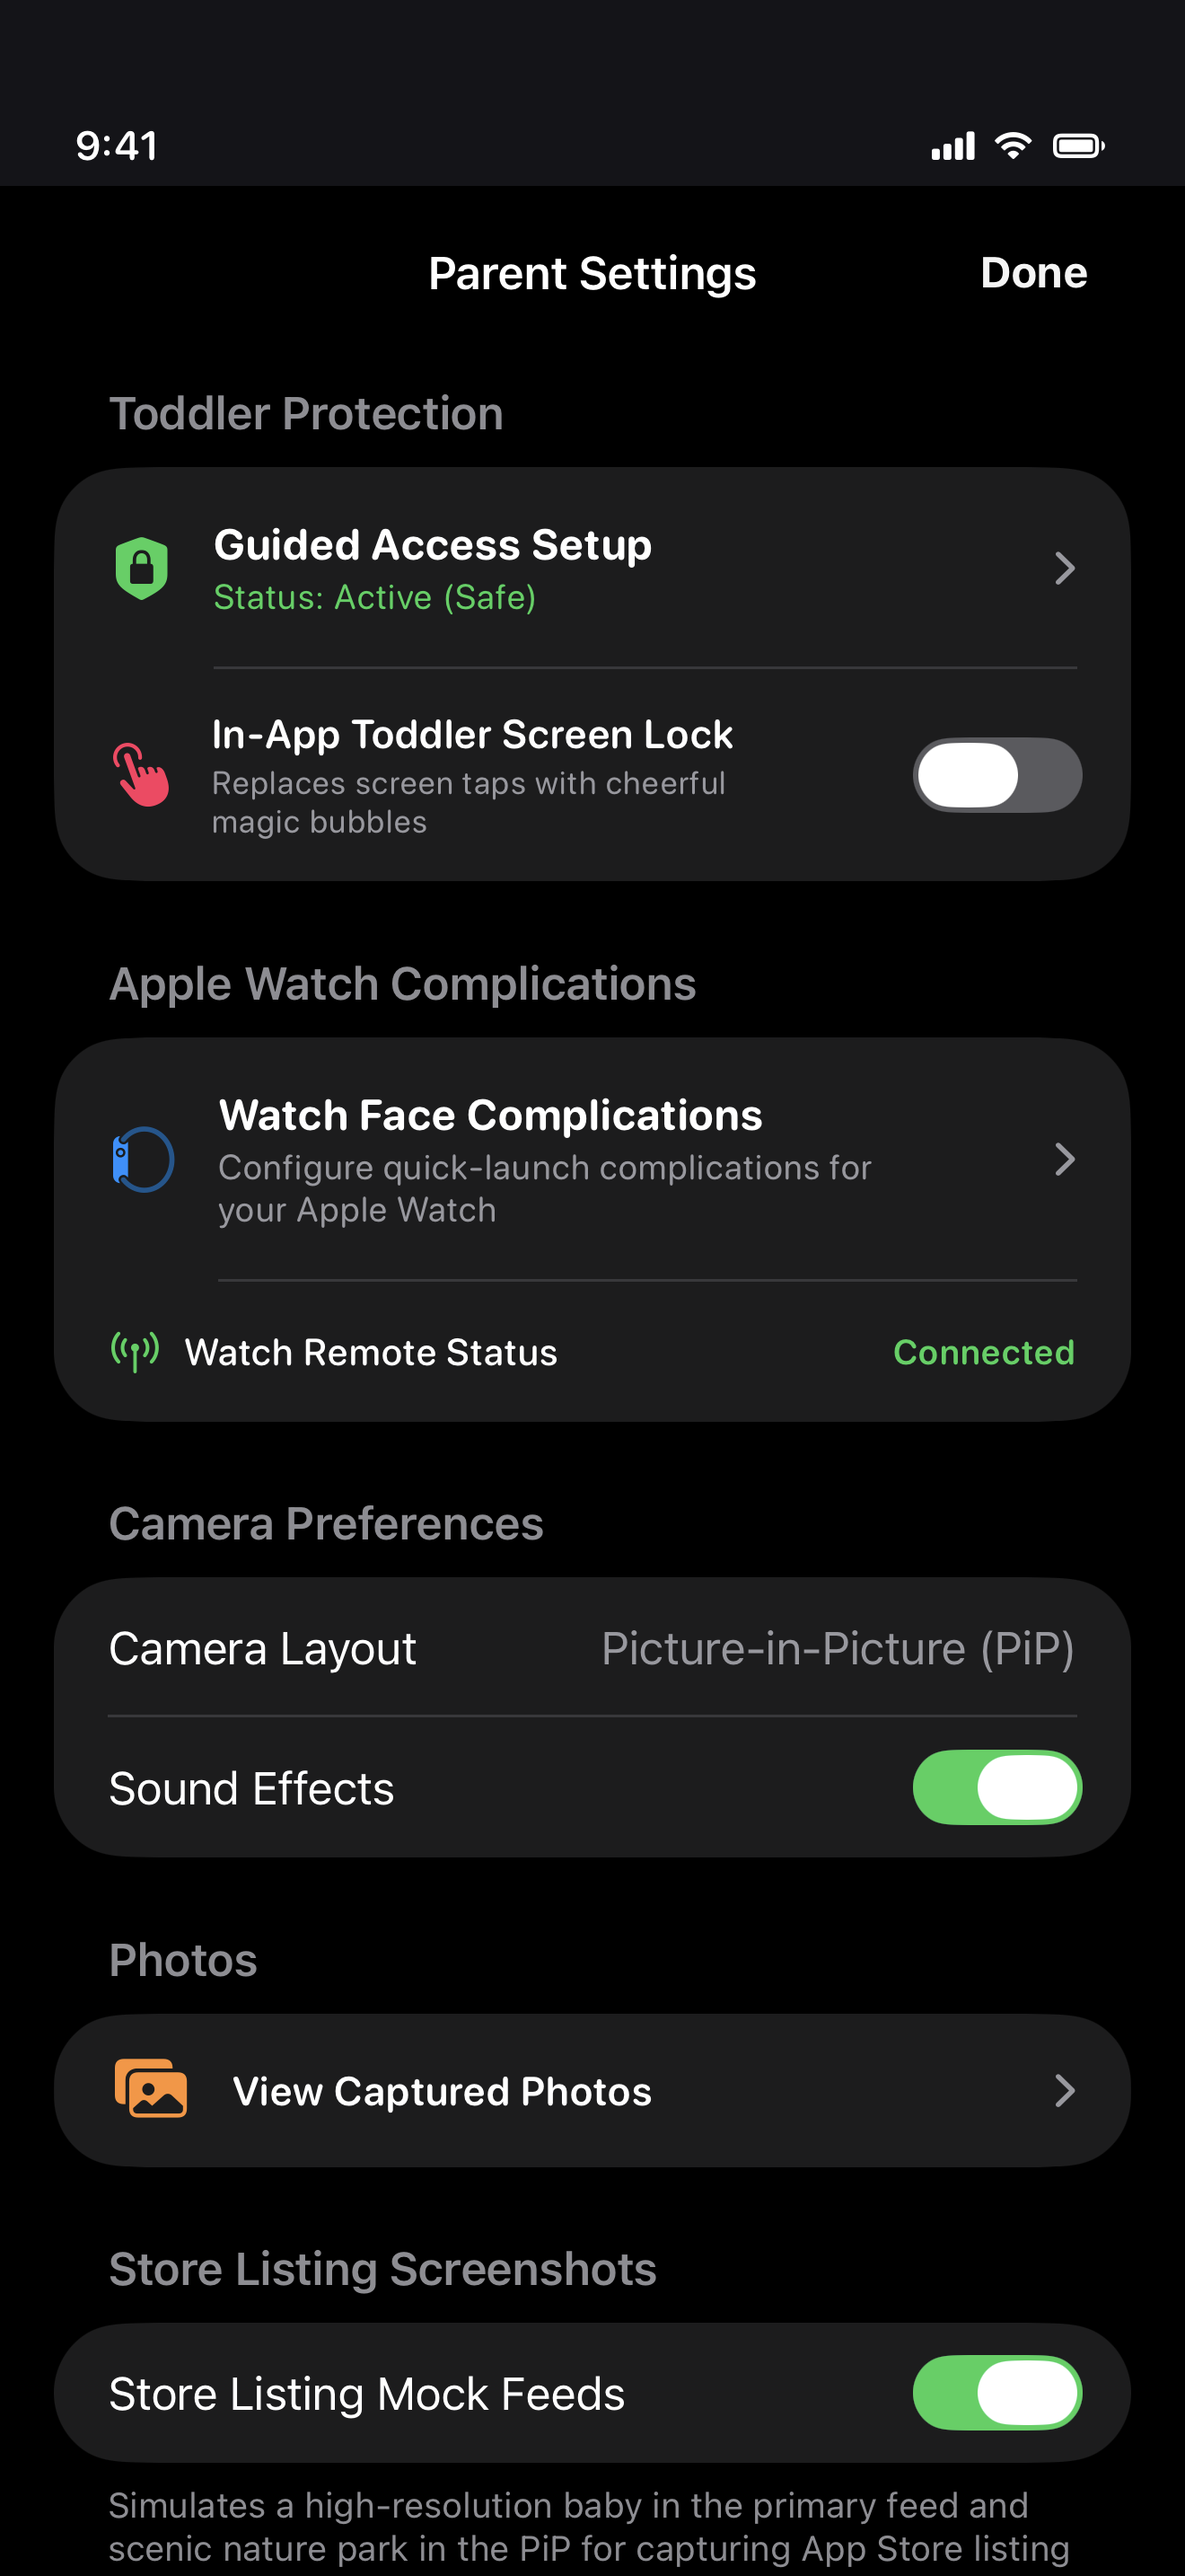
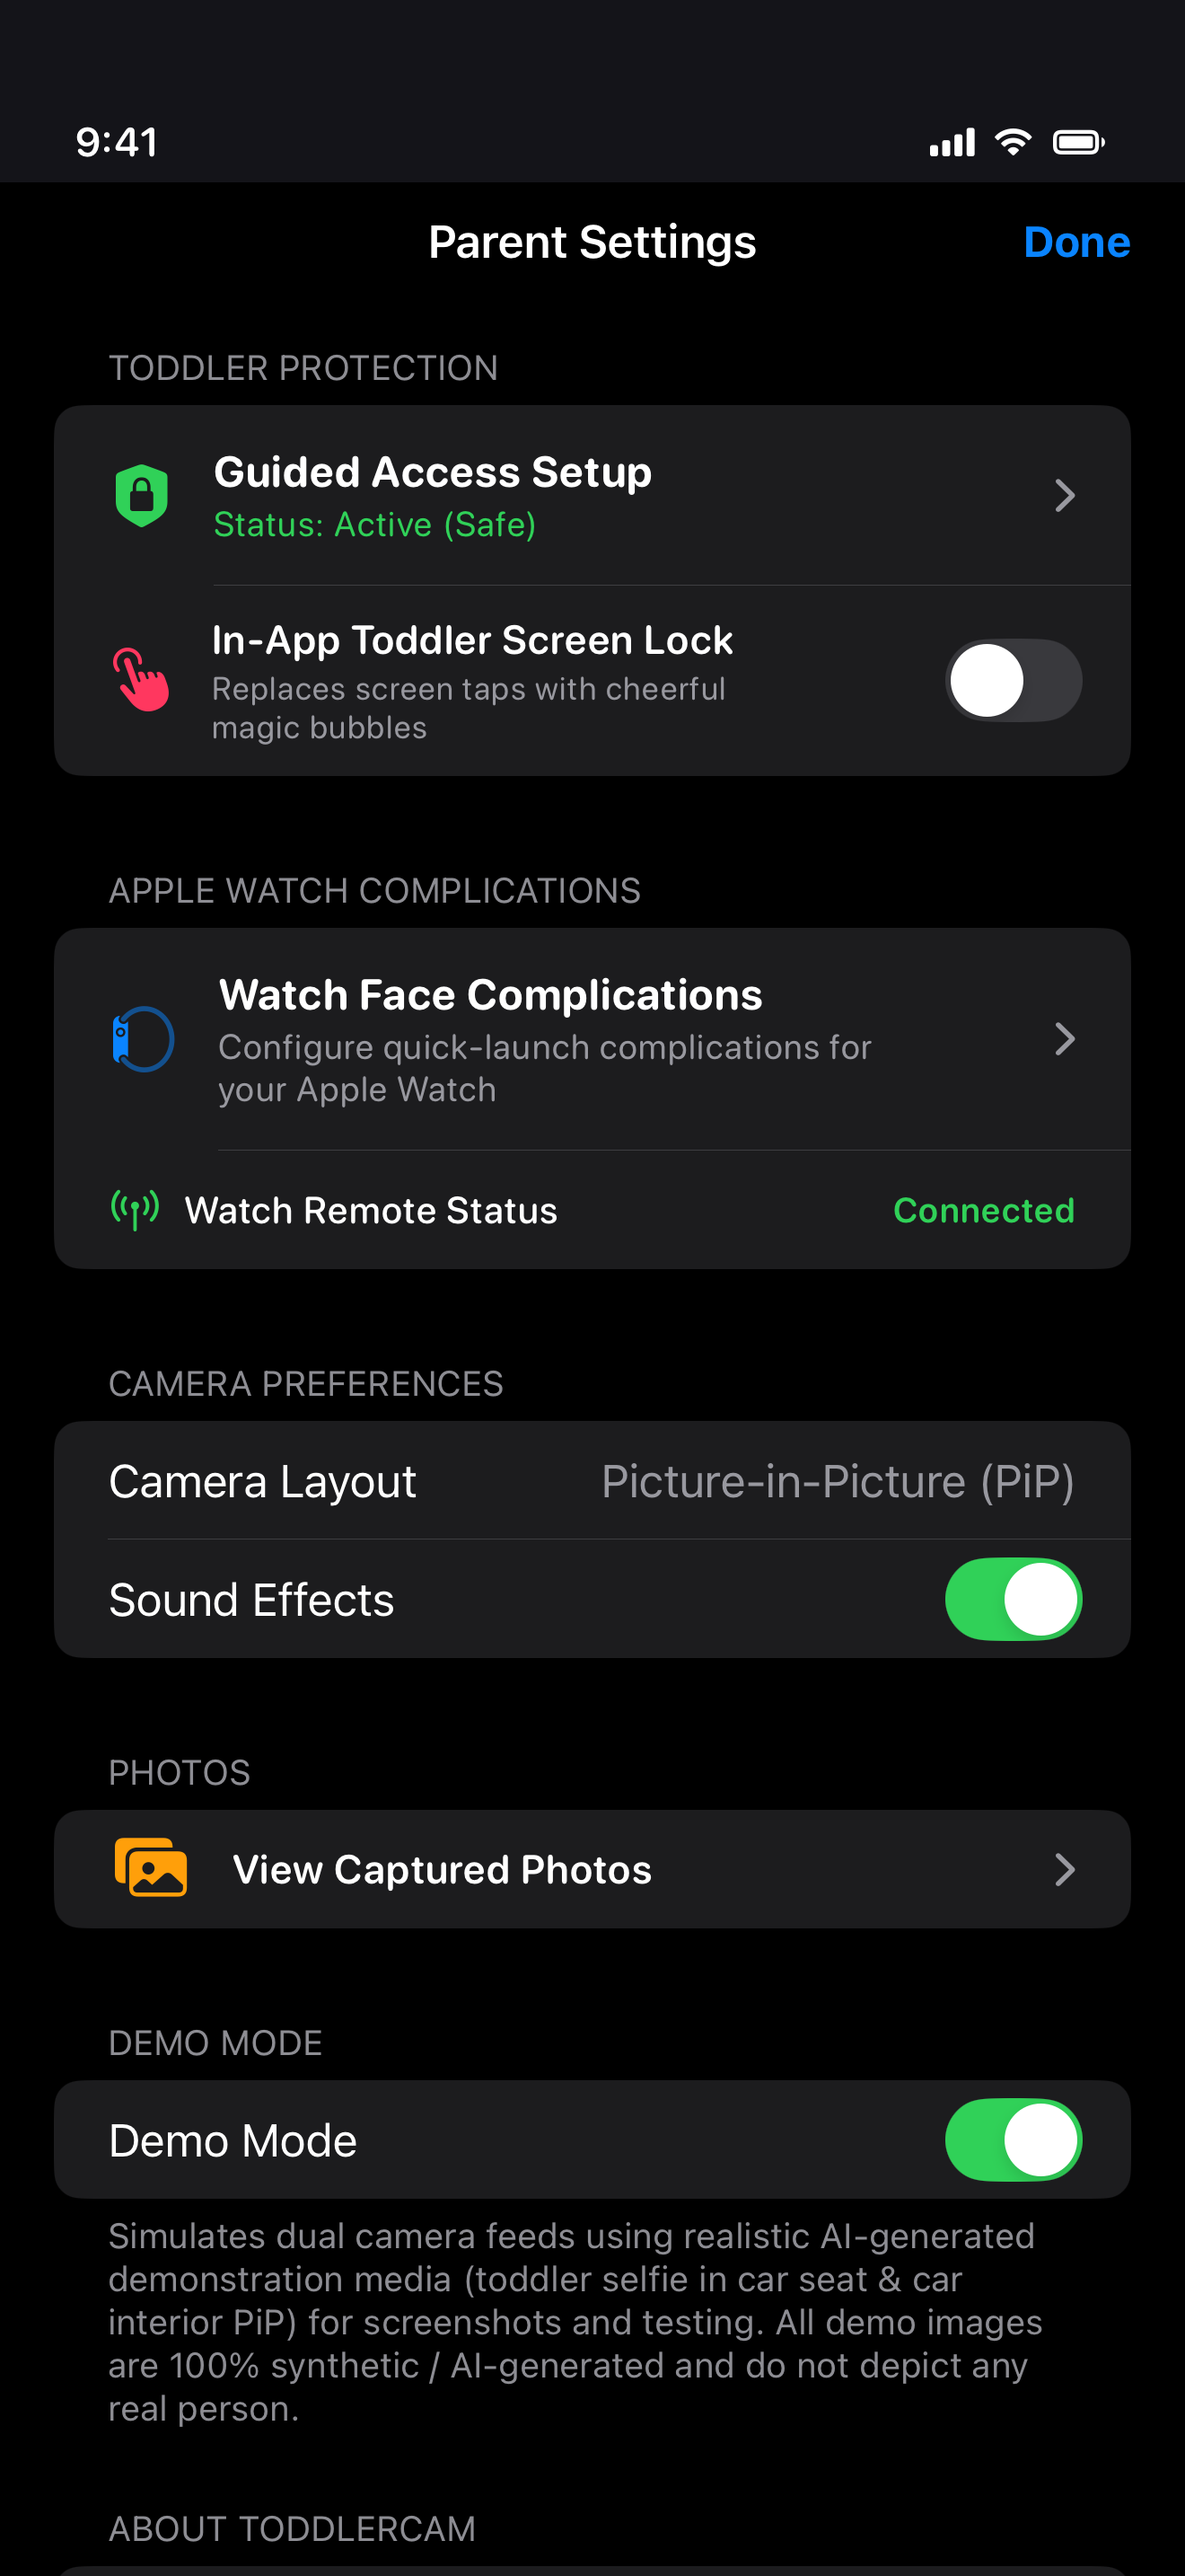
feat: replace demo mode mock feeds with AI-generated toddler imagery
Swaps the procedurally-drawn baby/nature-park demo frames for realistic
AI-generated demo photos (toddler car-seat selfie + car interior PiP),
refreshed App Store screenshots to match, and adds an on-screen
"AI-Generated / not a real person" disclosure badge in both the live
toddler camera view and the captured dual-photo watermark. Procedural
rendering is kept as a fallback if the bundled images can't be loaded.

Claude-Session: https://claude.ai/code/session_01FbxsA4ESkiWnKonDVCzdRW

diff --git a/KidsCam/Camera/DualPhotoRenderer.swift b/KidsCam/Camera/DualPhotoRenderer.swift
@@ -9,7 +9,8 @@ public final class DualPhotoRenderer {
         frontImage: UIImage,
         primaryPosition: ActiveCameraPosition,
         filter: FaceEmojiType? = FaceTrackingManager.shared.activeFilter,
-        sticker: String? = nil
+        sticker: String? = nil,
+        isDemo: Bool = DualCameraManager.shared.isDemoMode
     ) -> UIImage {
         let size = CGSize(width: 1200, height: 1600)
         let format = UIGraphicsImageRendererFormat()
@@ -100,7 +101,7 @@ public final class DualPhotoRenderer {
             }
 
             // Watermark ribbon at bottom
-            drawWatermark(size: size)
+            drawWatermark(size: size, isDemo: isDemo)
         }
     }
 
@@ -178,10 +179,10 @@ public final class DualPhotoRenderer {
         return buffer
     }
 
-    private static func drawWatermark(size: CGSize) {
-        let ribbonHeight: CGFloat = 80
+    private static func drawWatermark(size: CGSize, isDemo: Bool = false) {
+        let ribbonHeight: CGFloat = isDemo ? 104 : 80
 
-        let colors = [UIColor.black.withAlphaComponent(0.6).cgColor, UIColor.clear.cgColor]
+        let colors = [UIColor.black.withAlphaComponent(0.65).cgColor, UIColor.clear.cgColor]
         let colorSpace = CGColorSpaceCreateDeviceRGB()
         if let grad = CGGradient(colorsSpace: colorSpace, colors: colors as CFArray, locations: [1.0, 0.0]) {
             guard let ctx = UIGraphicsGetCurrentContext() else { return }
@@ -189,13 +190,24 @@ public final class DualPhotoRenderer {
         }
 
         let title = "📸 ToddlerCam Dual Shot"
-        let font = UIFont.systemFont(ofSize: 28, weight: .bold)
+        let font = UIFont.systemFont(ofSize: isDemo ? 24 : 28, weight: .bold)
         let attrs: [NSAttributedString.Key: Any] = [
             .font: font,
             .foregroundColor: UIColor.white
         ]
         let titleStr = NSString(string: title)
-        titleStr.draw(at: CGPoint(x: 30, y: size.height - 55), withAttributes: attrs)
+        let titleY = isDemo ? (size.height - 74) : (size.height - 55)
+        titleStr.draw(at: CGPoint(x: 30, y: titleY), withAttributes: attrs)
+
+        if isDemo {
+            let demoTag = "AI-Generated Demonstration • Does not represent a real person"
+            let demoAttrs: [NSAttributedString.Key: Any] = [
+                .font: UIFont.systemFont(ofSize: 18, weight: .semibold),
+                .foregroundColor: UIColor(red: 1.0, green: 0.9, blue: 0.4, alpha: 0.95)
+            ]
+            let demoStr = NSString(string: demoTag)
+            demoStr.draw(at: CGPoint(x: 30, y: size.height - 40), withAttributes: demoAttrs)
+        }
 
         let formatter = DateFormatter()
         formatter.dateStyle = .medium
@@ -206,7 +218,7 @@ public final class DualPhotoRenderer {
             .foregroundColor: UIColor(white: 0.9, alpha: 0.9)
         ]
         let dateSize = dateStr.size(withAttributes: dateAttrs)
-        dateStr.draw(at: CGPoint(x: size.width - dateSize.width - 30, y: size.height - 52), withAttributes: dateAttrs)
+        dateStr.draw(at: CGPoint(x: size.width - dateSize.width - 30, y: titleY + (isDemo ? 1 : 3)), withAttributes: dateAttrs)
     }
 
     public static func renderSimulatedBackCamera() -> UIImage {
@@ -302,10 +314,50 @@ public final class DualPhotoRenderer {
         }
     }
 
-    // MARK: - Demo Mode Feeds (Baby & Nature / Amusement Park)
+    // MARK: - Demo Mode Feeds (AI-Generated Kid Selfie & Car View)
 
-    /// Renders a cheerful, high-resolution portrait illustration of a baby for store listing screenshots
+    /// Helper to reliably load demo images from Asset Catalog, App/Framework Bundle, or repo resources
+    public static func loadDemoImage(named name: String, filename: String) -> UIImage? {
+        if let img = UIImage(named: name) {
+            return img
+        }
+        if let bundle = Bundle(identifier: "com.hejitech.kidscam"), let img = UIImage(named: name, in: bundle, compatibleWith: nil) {
+            return img
+        }
+        let frameworkBundle = Bundle(for: DualCameraManager.self)
+        if let img = UIImage(named: name, in: frameworkBundle, compatibleWith: nil) {
+            return img
+        }
+        if let path = frameworkBundle.path(forResource: filename, ofType: "jpg"), let img = UIImage(contentsOfFile: path) {
+            return img
+        }
+        if let path = Bundle.main.path(forResource: filename, ofType: "jpg"), let img = UIImage(contentsOfFile: path) {
+            return img
+        }
+        let devPaths = [
+            "/Users/tianhaoz/GitHub/kids-cam/KidsCam/Resources/" + filename + ".jpg",
+            "/Users/tianhaoz/GitHub/kids-cam/KidsCam/Resources/Assets.xcassets/" + name + ".imageset/" + filename + ".jpg"
+        ]
+        for p in devPaths {
+            if FileManager.default.fileExists(atPath: p), let img = UIImage(contentsOfFile: p) {
+                return img
+            }
+        }
+        return nil
+    }
+
+    /// Renders a realistic AI-generated portrait of a toddler in a car seat for demo mode and store listing screenshots
     public static func renderBabyMockImage(size: CGSize = CGSize(width: 800, height: 1200)) -> UIImage {
+        if let baseImage = loadDemoImage(named: "DemoKidSelfie", filename: "demo_kid_selfie") {
+            return UIGraphicsImageRenderer(size: size).image { ctx in
+                drawImageAspectFill(baseImage, in: CGRect(origin: .zero, size: size), context: ctx.cgContext)
+            }
+        }
+        return renderProceduralBabyMockImage(size: size)
+    }
+
+    /// Procedural drawing fallback if bundle image is not available
+    public static func renderProceduralBabyMockImage(size: CGSize = CGSize(width: 800, height: 1200)) -> UIImage {
         return UIGraphicsImageRenderer(size: size).image { ctx in
             let cg = ctx.cgContext
 
@@ -467,8 +519,23 @@ public final class DualPhotoRenderer {
         }
     }
 
-    /// Renders a scenic state park and amusement park landscape for the picture-in-picture view
+    /// Renders the demo car self-view / rear view for the picture-in-picture view
     public static func renderNatureParkMockImage(size: CGSize = CGSize(width: 800, height: 1200)) -> UIImage {
+        return renderCarSelfViewMockImage(size: size)
+    }
+
+    /// Renders the realistic AI-generated car interior view for PiP in demo mode
+    public static func renderCarSelfViewMockImage(size: CGSize = CGSize(width: 800, height: 1200)) -> UIImage {
+        if let baseImage = loadDemoImage(named: "DemoCarSelfView", filename: "demo_car_self_view") {
+            return UIGraphicsImageRenderer(size: size).image { ctx in
+                drawImageAspectFill(baseImage, in: CGRect(origin: .zero, size: size), context: ctx.cgContext)
+            }
+        }
+        return renderProceduralNatureParkMockImage(size: size)
+    }
+
+    /// Procedural drawing fallback if bundle image is not available
+    public static func renderProceduralNatureParkMockImage(size: CGSize = CGSize(width: 800, height: 1200)) -> UIImage {
         return UIGraphicsImageRenderer(size: size).image { ctx in
             let cg = ctx.cgContext
 

diff --git a/KidsCam/Camera/DualCameraPreviewView.swift b/KidsCam/Camera/DualCameraPreviewView.swift
@@ -77,7 +77,7 @@ public struct DualCameraPreviewView: View {
         let pipWidth: CGFloat = screenSize.width * 0.35
         let pipHeight: CGFloat = pipWidth * 1.33
         let secondaryPos: ActiveCameraPosition = (cameraManager.primaryPosition == .back) ? .front : .back
-        let topOffset: CGFloat = max(geo.safeAreaInsets.top, 48) + 50
+        let topOffset: CGFloat = max(geo.safeAreaInsets.top, 48) + 90
 
         ZStack {
             // Main Fullscreen Feed - Fills 100% of the display edge-to-edge
@@ -169,11 +169,31 @@ public struct DualCameraPreviewView: View {
     @ViewBuilder
     private func demoBabyFeed(targetSize: CGSize) -> some View {
         let img = cameraManager.demoBabyFrame ?? DualPhotoRenderer.renderBabyMockImage()
-        Image(uiImage: img)
-            .resizable()
-            .aspectRatio(contentMode: .fill)
-            .frame(width: targetSize.width, height: targetSize.height)
-            .clipped()
+        let isLarge = targetSize.width > 300
+        ZStack(alignment: .bottom) {
+            Image(uiImage: img)
+                .resizable()
+                .aspectRatio(contentMode: .fill)
+                .frame(width: targetSize.width, height: targetSize.height)
+                .clipped()
+
+
+            if !isLarge {
+                // Compact badge inside PiP window
+                HStack(spacing: 3) {
+                    Image(systemName: "sparkles")
+                        .font(.system(size: 8, weight: .bold))
+                    Text("AI-Generated")
+                        .font(.system(size: 8, weight: .bold, design: .rounded))
+                }
+                .foregroundColor(.white)
+                .padding(.horizontal, 6)
+                .padding(.vertical, 3)
+                .background(Color.black.opacity(0.70))
+                .cornerRadius(6)
+                .padding(.bottom, 6)
+            }
+        }
     }
 
     @ViewBuilder

diff --git a/KidsCam/UI/ToddlerCameraView.swift b/KidsCam/UI/ToddlerCameraView.swift
@@ -46,9 +46,31 @@ public struct ToddlerCameraView: View {
                 // 2. Main Toddler Controls
                 VStack(spacing: 0) {
                     // Top Header Bar cleanly positioned below notch / Dynamic Island
-                    topHeaderBar
-                        .padding(.horizontal, 16)
-                        .padding(.top, max(geo.safeAreaInsets.top, 48) + 4)
+                    VStack(alignment: .leading, spacing: 6) {
+                        topHeaderBar
+                            .padding(.horizontal, 16)
+
+                        if cameraManager.isDemoMode {
+                            HStack(spacing: 5) {
+                                Image(systemName: "sparkles")
+                                    .font(.system(size: 10, weight: .bold))
+                                    .foregroundColor(.yellow)
+                                Text("DEMO MODE • AI-Generated (Not a real person)")
+                                    .font(.system(size: 10, weight: .bold, design: .rounded))
+                                    .foregroundColor(.white)
+                            }
+                            .padding(.horizontal, 10)
+                            .padding(.vertical, 5)
+                            .background(Color.black.opacity(0.72))
+                            .cornerRadius(12)
+                            .overlay(
+                                RoundedRectangle(cornerRadius: 12)
+                                    .stroke(Color.white.opacity(0.25), lineWidth: 1)
+                            )
+                            .padding(.horizontal, 16)
+                        }
+                    }
+                    .padding(.top, max(geo.safeAreaInsets.top, 48) + 4)
 
                     Spacer()
 

diff --git a/KidsCam/UI/ParentHubView.swift b/KidsCam/UI/ParentHubView.swift
@@ -148,7 +148,10 @@ public struct ParentHubView: View {
                 }
 
                 // Section 5: Demo Mode
-                Section(header: Text("Demo Mode"), footer: Text("Simulates a high-resolution baby in the primary feed and scenic nature park in the PiP for capturing App Store listing screenshots.")) {
+                Section(
+                    header: Text("Demo Mode"),
+                    footer: Text("Simulates dual camera feeds using realistic AI-generated demonstration media (toddler selfie in car seat & car interior PiP) for screenshots and testing. All demo images are 100% synthetic / AI-generated and do not depict any real person.")
+                ) {
                     Toggle("Demo Mode", isOn: $cameraManager.isDemoMode)
                 }
 

diff --git a/KidsCam/Vision/FaceTrackingManager.swift b/KidsCam/Vision/FaceTrackingManager.swift
@@ -52,9 +52,9 @@ public final class FaceTrackingManager: ObservableObject {
     // MARK: - Demo Mode / Mock Face Detection
     public func mockBabyFaceDetection() {
         self.isFaceDetected = true
-        self.normalizedFaceRect = CGRect(x: 0.24, y: 0.20, width: 0.52, height: 0.45)
-        self.eyesCenterNormalized = CGPoint(x: 0.50, y: 0.38)
-        self.foreheadCenterNormalized = CGPoint(x: 0.50, y: 0.22)
+        self.normalizedFaceRect = CGRect(x: 0.356, y: 0.303, width: 0.287, height: 0.215)
+        self.eyesCenterNormalized = CGPoint(x: 0.50, y: 0.389)
+        self.foreheadCenterNormalized = CGPoint(x: 0.50, y: 0.26)
         self.headRoll = 0.0
         self.headYaw = 0.0
         self.lastImageSize = CGSize(width: 800, height: 1200)
